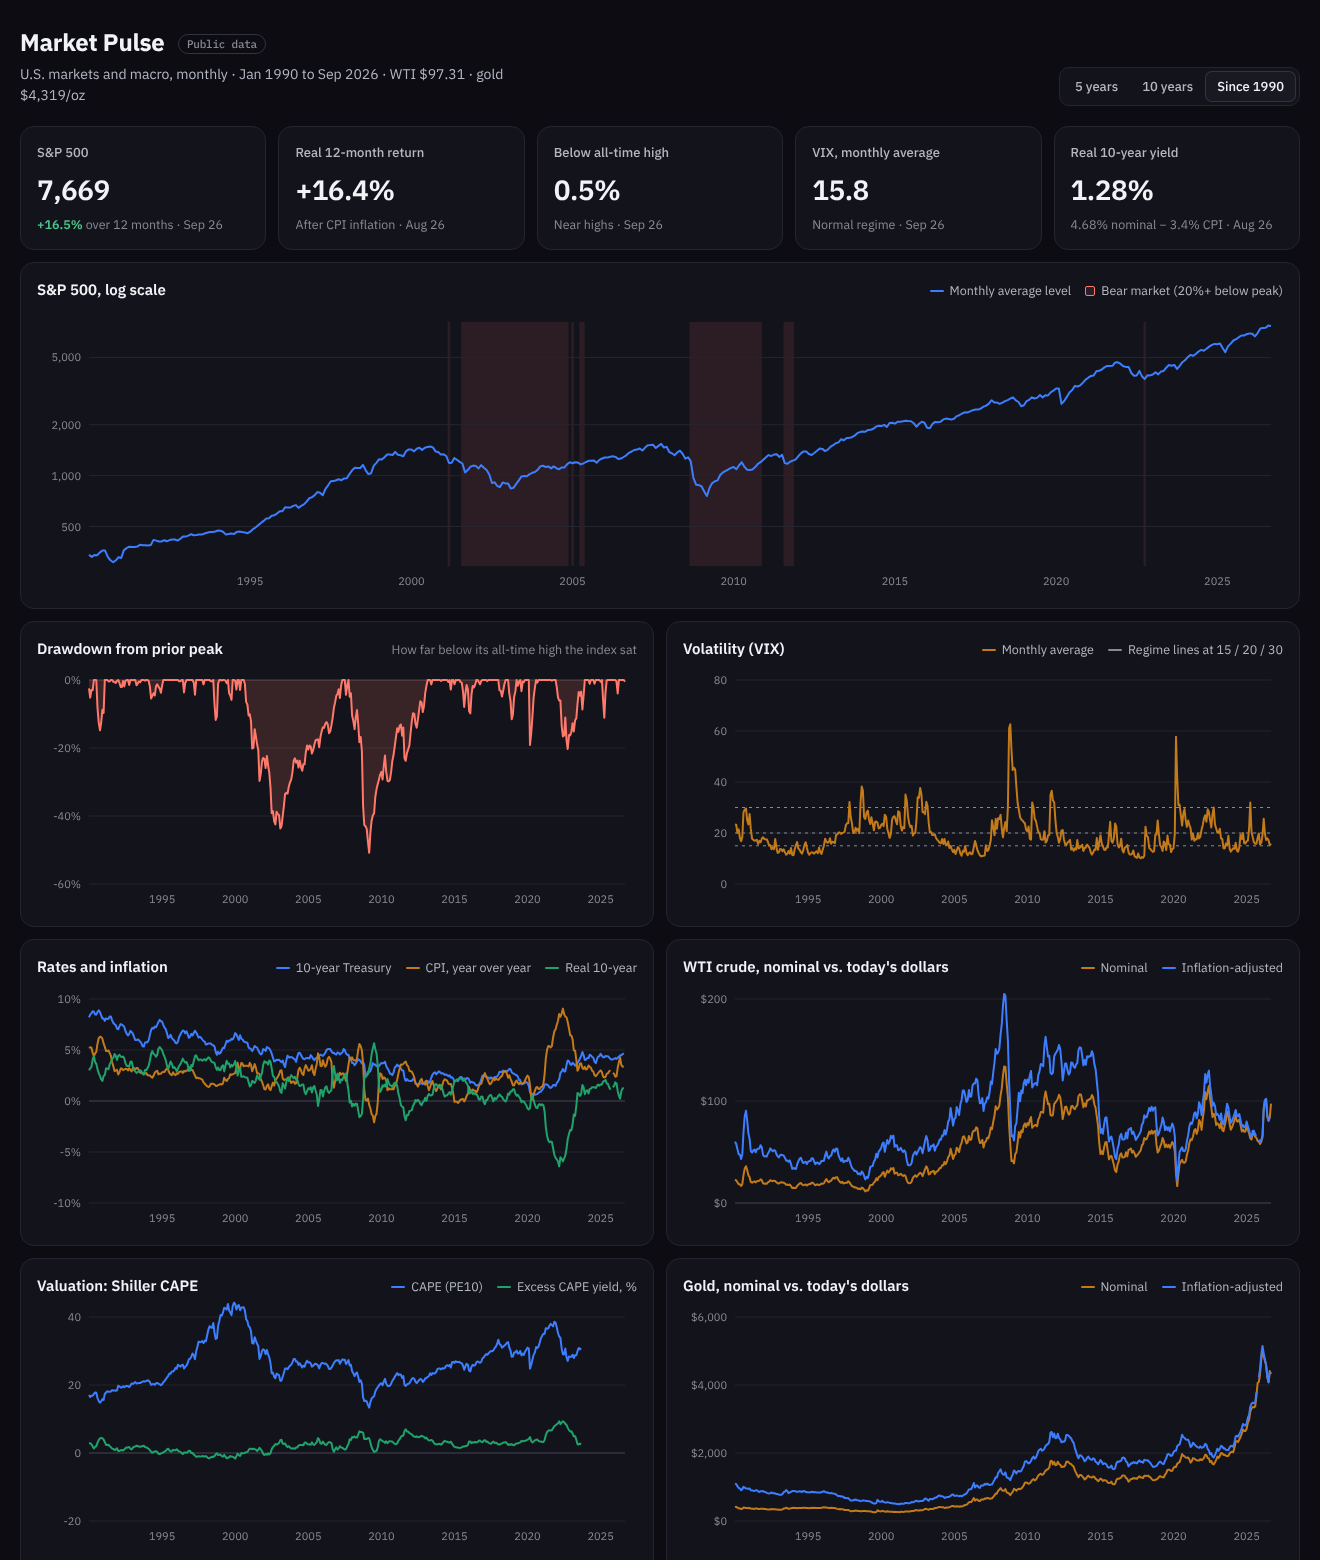
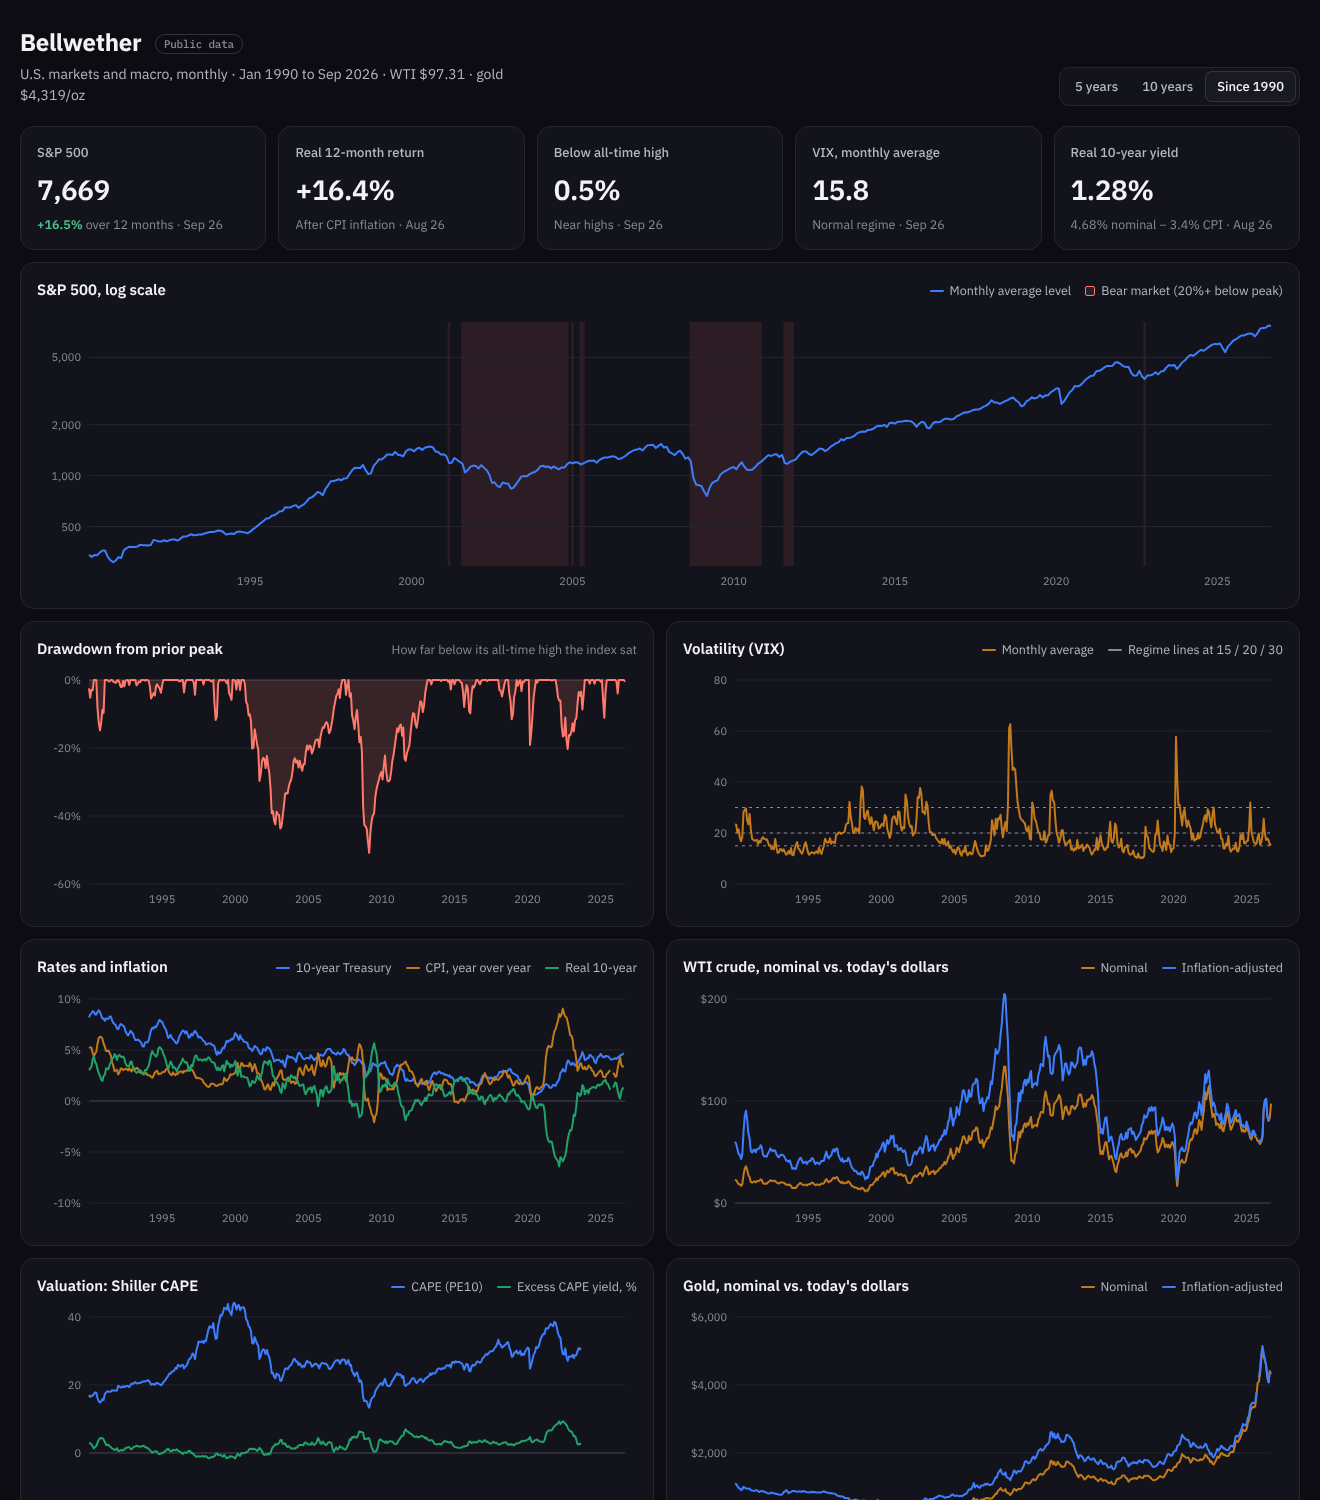
Rename project to Bellwether
Claude-Session: https://claude.ai/code/session_0115tsXVS3SzXwHY6ufHKykD

diff --git a/dashboard/index.html b/dashboard/index.html
@@ -3,7 +3,7 @@
 <head>
 <meta charset="utf-8">
 <meta name="viewport" content="width=device-width,initial-scale=1">
-<title>Market Pulse</title>
+<title>Bellwether</title>
 <link rel="preconnect" href="https://fonts.googleapis.com">
 <link rel="stylesheet" href="https://fonts.googleapis.com/css2?family=IBM+Plex+Mono:wght@400;500&family=IBM+Plex+Sans:wght@400;500;600;700&display=swap">
 <style>
@@ -76,7 +76,7 @@ footer.lin a{color:var(--text-2)}
 <div class="wrap">
   <header class="top">
     <div class="brand">
-      <h1>Market Pulse <span class="badge">Public data</span></h1>
+      <h1>Bellwether <span class="badge">Public data</span></h1>
       <p id="subtitle">U.S. markets and macro, monthly · loading…</p>
     </div>
     <div class="seg" role="group" aria-label="Date range">
@@ -244,7 +244,7 @@ function renderStatic(){
   ];
   $('dq').innerHTML=items.map(([n,t])=>`<li><b>${num(n)}</b><span>${t}</span></li>`).join('');
   $('sources').innerHTML=`<thead><tr><th>Raw table</th><th>Publisher</th><th>Rows</th></tr></thead><tbody>`+D.sources.map(s=>`<tr><td><code>${s[0]}</code></td><td>${s[1]}</td><td>${num(s[2])}</td></tr>`).join('')+'</tbody>';
-  $('lineage').innerHTML=`Built from <code>reporting.rpt_market_monthly</code> and <code>reporting.rpt_sector_valuation</code> (dbt) · ${num(q.daily_rows)} daily and ${num(q.monthly_rows)} monthly observations · data exported ${D.generated} · <a href="https://github.com/evannwilsonn/market-pulse">github.com/evannwilsonn/market-pulse</a>. Not investment advice.`;
+  $('lineage').innerHTML=`Built from <code>reporting.rpt_market_monthly</code> and <code>reporting.rpt_sector_valuation</code> (dbt) · ${num(q.daily_rows)} daily and ${num(q.monthly_rows)} monthly observations · data exported ${D.generated} · <a href="https://github.com/evannwilsonn/bellwether">github.com/evannwilsonn/bellwether</a>. Not investment advice.`;
 }
 
 document.querySelectorAll('.seg button').forEach(b=>b.addEventListener('click',()=>{range=b.dataset.r;document.querySelectorAll('.seg button').forEach(x=>x.setAttribute('aria-pressed',x===b));renderCharts()}));

diff --git a/ingest/extract.py b/ingest/extract.py
@@ -44,7 +44,7 @@ SOURCES = [
 def fetch(url: str, attempts: int = 4) -> bytes:
     for i in range(attempts):
         try:
-            req = urllib.request.Request(url, headers={"User-Agent": "market-pulse-extract/1.0"})
+            req = urllib.request.Request(url, headers={"User-Agent": "bellwether-extract/1.0"})
             with urllib.request.urlopen(req, timeout=60) as r:
                 return r.read()
         except Exception as exc:  # network blips: back off and retry

diff --git a/dashboard/export_data.py b/dashboard/export_data.py
@@ -12,7 +12,7 @@ from pathlib import Path
 import duckdb
 
 ROOT = Path(__file__).resolve().parents[1]
-DB = ROOT / "warehouse" / "market_pulse.duckdb"
+DB = ROOT / "warehouse" / "bellwether.duckdb"
 OUT = ROOT / "dashboard" / "data.json"
 
 MONTH_COLS = [

diff --git a/ingest/load_raw.py b/ingest/load_raw.py
@@ -19,7 +19,7 @@ import duckdb
 
 ROOT = Path(__file__).resolve().parents[1]
 RAW = ROOT / "data" / "raw"
-DB = ROOT / "warehouse" / "market_pulse.duckdb"
+DB = ROOT / "warehouse" / "bellwether.duckdb"
 SCHEMA = "raw_datahub"
 
 

diff --git a/README.md b/README.md
@@ -1,10 +1,10 @@
-# Market Pulse
+# Bellwether: Markets & Macro Data Pipeline
 
 An end-to-end ELT pipeline on real public data. It **extracts** a set of financial market and macro series (S&P 500, VIX, oil, natural gas, gold, Treasury yields, CPI and S&P 500 company fundamentals), **loads** them untouched into a warehouse landing zone, and **transforms** them with dbt into a tested star schema and two reporting marts that feed a dashboard.
 
 It runs locally on DuckDB in about 15 seconds, and the same dbt project targets Snowflake.
 
-![Market Pulse dashboard](docs/dashboard.png)
+![Bellwether dashboard](docs/dashboard.png)
 
 ## What it answers
 
@@ -87,8 +87,8 @@ Public data is messier than it looks. Each of these is handled in code and count
 ## Run it
 
 ```bash
-git clone https://github.com/evannwilsonn/market-pulse.git
-cd market-pulse
+git clone https://github.com/evannwilsonn/bellwether.git
+cd bellwether
 python -m venv .venv && source .venv/bin/activate
 make setup     # pip install -r requirements.txt
 make all       # extract → load → dbt build → export dashboard data
